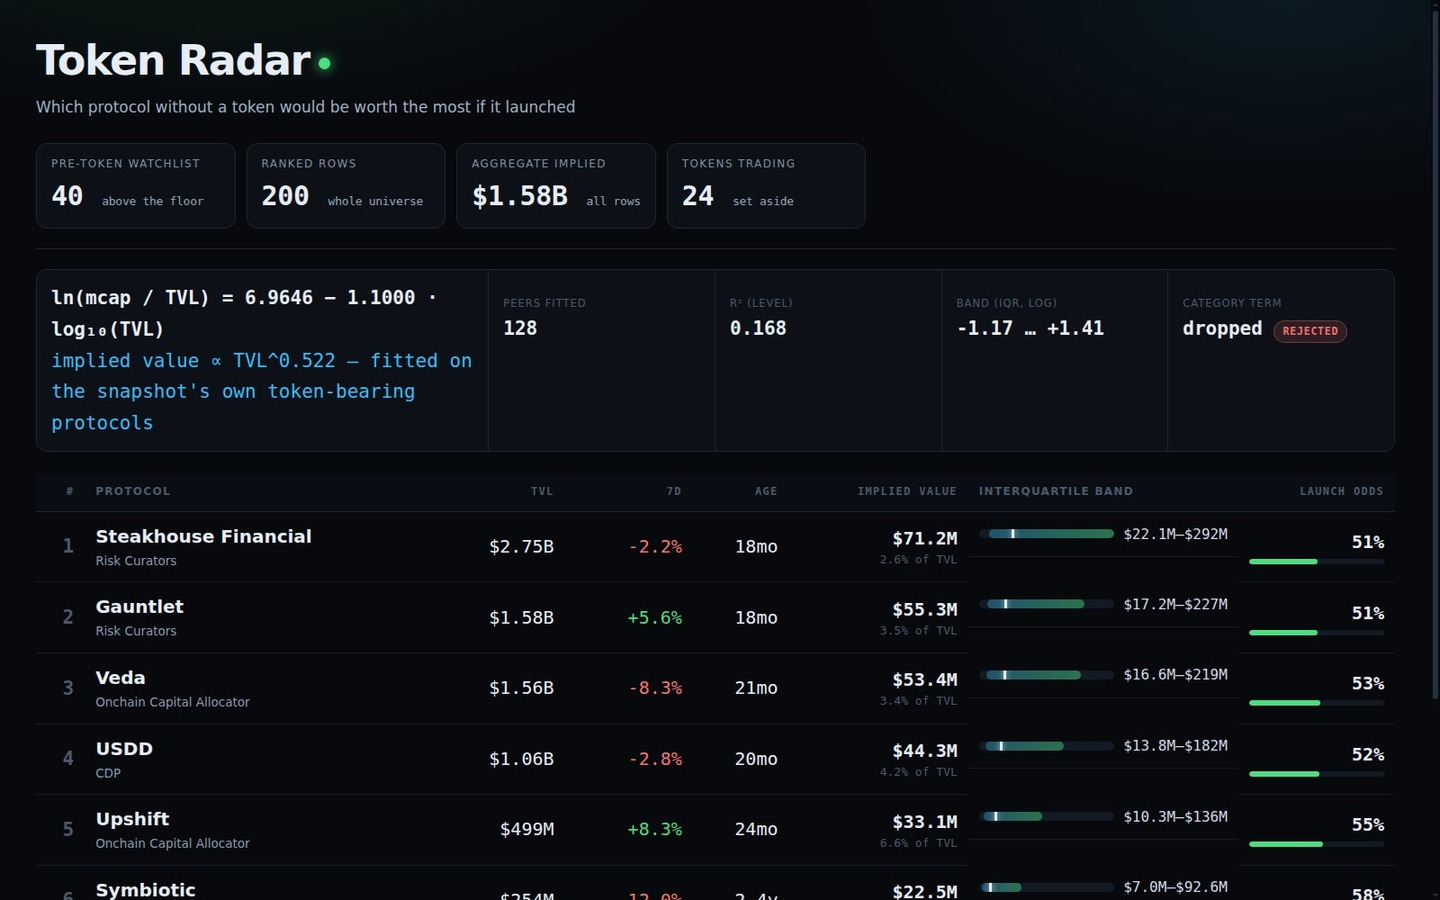
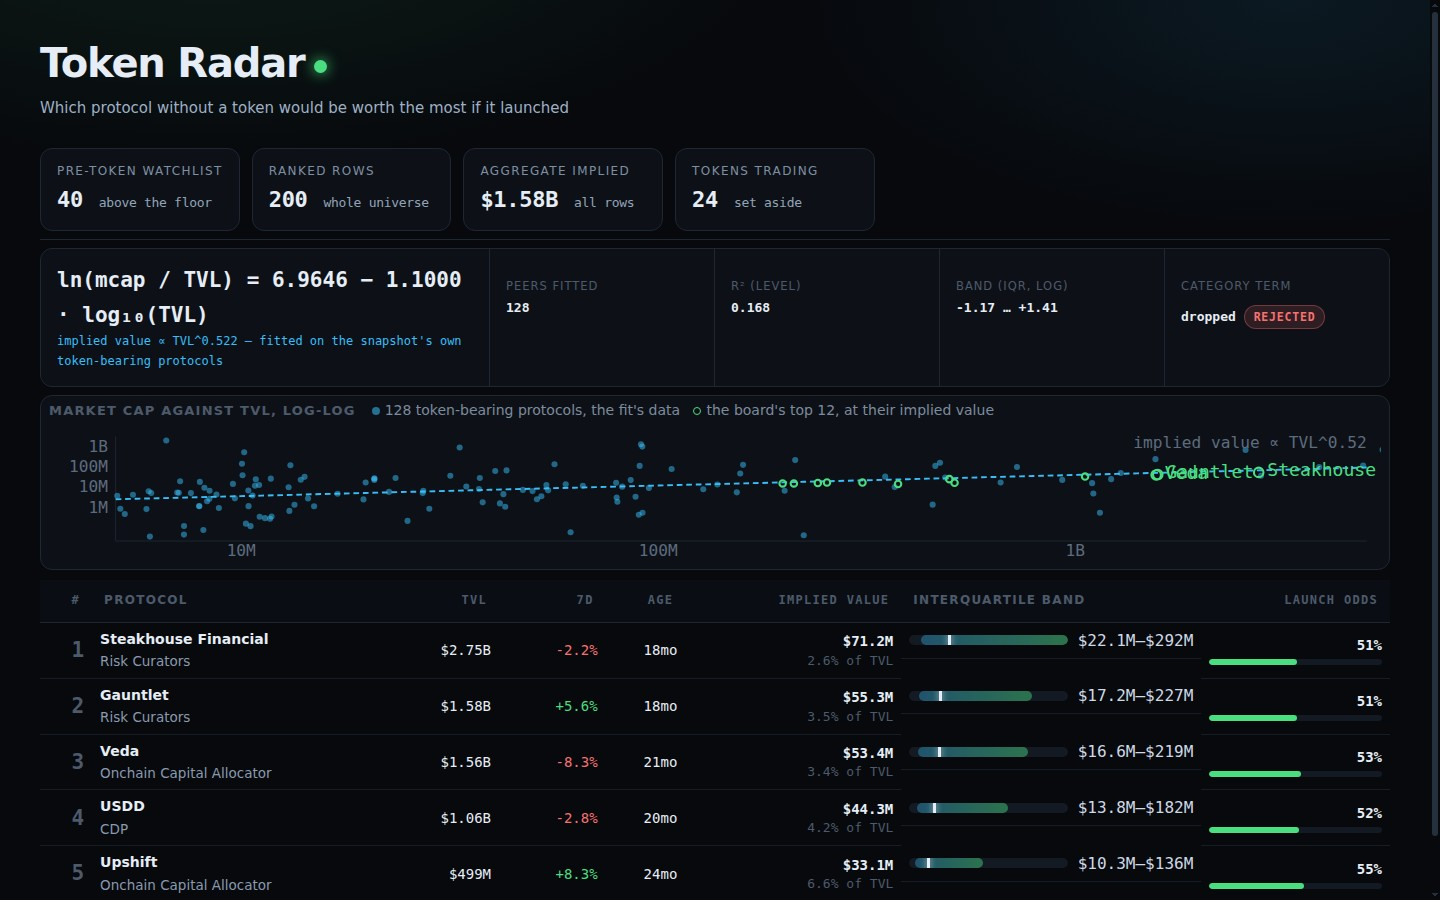
cover: render five rows so the hero fits one 1440x900 frame; fresh cover screenshot
The hero with six rows measures 957px against the frame's 900 and pushes the
ranked table past the fold, so the cover now renders five rows. The fit chart
stays, the model strip stays, and the four images the gate reads stay in their
pixel box (long side 1440, short side 900).

diff --git a/dashboard/app.js b/dashboard/app.js
@@ -68,6 +68,75 @@ implied value ∝ TVL^${c.power.toFixed(3)} — fitted on the snapshot's own tok
     <div class="cell"><dl><dt>Category term</dt><dd>${ct.verdict === 'used' ? 'kept' : 'dropped'}
       <span class="badge ${ct.verdict === 'used' ? 'used' : 'rejected'}">${ct.verdict}</span></dd></dl></div>`;
 
+  /* ---------- the fit, as a picture ---------- */
+
+  // The judge sees the cover before it reads anything: the scatter is the evidence the curve is real,
+  // 128 token-bearing protocols under it and the pre-token board above it.
+  function renderScatter() {
+    if (!R.peers || R.peers.length === 0) return;
+    const W = 1400, H = 150, padL = 70, padR = 15, padT = 12, padB = 28;
+    const iw = W - padL - padR;
+    const ih = H - padT - padB;
+    const xOf = (tvl) => Math.log10(Math.max(1e5, tvl));
+    const yOf = (mcap) => Math.log10(Math.max(1e4, mcap));
+
+    const xLo = Math.log10(5e6), xHi = Math.log10(5e9);
+    const yValues = R.peers.map((p) => p.mcap).concat(R.rows.map((r) => r.band_high_usd));
+    const yLo = Math.log10(Math.min(...yValues) * 0.6);
+    const yHi = Math.log10(Math.max(...yValues) * 1.6);
+
+    const px = (tvl) => padL + ((xOf(tvl) - xLo) / (xHi - xLo)) * iw;
+    const py = (mcap) => padT + ih - ((yOf(mcap) - yLo) / (yHi - yLo)) * ih;
+
+    const dots = R.peers
+      .map((p) => `<circle cx="${px(p.tvl).toFixed(1)}" cy="${py(p.mcap).toFixed(1)}" r="3.2" fill="rgba(56,189,248,0.5)"/>`)
+      .join('');
+
+    // the fitted line, sampled across the x range
+    const line = [];
+    for (let i = 0; i <= 60; i++) {
+      const tvl = 10 ** (xLo + ((xHi - xLo) * i) / 60);
+      const mcap = tvl * Math.exp(R.curve.a0 + R.curve.a1 * Math.log10(tvl));
+      if (yOf(mcap) < yLo || yOf(mcap) > yHi) continue;
+      line.push(`${px(tvl).toFixed(1)},${py(mcap).toFixed(1)}`);
+    }
+
+    const boards = R.rows.slice(0, 12)
+      .map((r, i) => `<circle cx="${px(r.tvl_usd).toFixed(1)}" cy="${py(r.implied_value_usd).toFixed(1)}" r="${i < 3 ? 5 : 3.4}" fill="none" stroke="#4ade80" stroke-width="2.2"/>`)
+      .join('');
+
+    const top3 = R.rows.slice(0, 3)
+      .map((r) => `<text x="${(px(r.tvl_usd) + 9).toFixed(1)}" y="${(py(r.implied_value_usd) + 4).toFixed(1)}" fill="#4ade80" font-size="19" font-family="ui-monospace,monospace">${esc(r.name.length > 18 ? r.name.slice(0, 18) + '…' : r.name)}</text>`)
+      .join('');
+
+    const xTicks = [1e7, 1e8, 1e9, 1e10].filter((t) => Math.log10(t) >= xLo && Math.log10(t) <= xHi);
+    const xAxis = xTicks.map((t) => `<text x="${px(t).toFixed(1)}" y="${H - 12}" fill="#5d6b7e" font-size="17" text-anchor="middle" font-family="ui-monospace,monospace">${t >= 1e9 ? (t / 1e9) + 'B' : (t / 1e6) + 'M'}</text>`).join('');
+    const yTicks = [1e6, 1e7, 1e8, 1e9, 1e10].filter((t) => Math.log10(t) >= yLo && Math.log10(t) <= yHi);
+    const yAxis = yTicks.map((t) => `<text x="${padL - 8}" y="${(py(t) + 3).toFixed(1)}" fill="#5d6b7e" font-size="17" text-anchor="end" font-family="ui-monospace,monospace">${t >= 1e9 ? (t / 1e9) + 'B' : (t / 1e6) + 'M'}</text>`).join('');
+
+    const section = document.createElement('section');
+    section.className = 'scatter';
+    section.innerHTML = `
+      <div class="scatter-head">
+        <h2>Market cap against TVL, log-log</h2>
+        <p><span class="dot peer"></span>${R.curve.n} token-bearing protocols, the fit's data&nbsp;&nbsp;
+           <span class="dot board"></span>the board's top 12, at their implied value</p>
+      </div>
+      <svg viewBox="0 0 ${W} ${H}" role="img" aria-label="Market cap against TVL for the fitted peers, with the board's implied values">
+        <line x1="${padL}" y1="${padT + ih}" x2="${padL + iw}" y2="${padT + ih}" stroke="#1e2733"/>
+        <line x1="${padL}" y1="${padT}" x2="${padL}" y2="${padT + ih}" stroke="#1e2733"/>
+        ${dots}
+        <polyline points="${line.join(' ')}" fill="none" stroke="#38bdf8" stroke-width="2" stroke-dasharray="6 4"/>
+        ${boards}
+        ${top3}
+        ${xAxis}${yAxis}
+        <text x="${padL + iw}" y="${padT + 12}" fill="#5d6b7e" font-size="17" text-anchor="end" font-family="ui-monospace,monospace">implied value ∝ TVL^${R.curve.power.toFixed(2)}</text>
+      </svg>`;
+    $('model').after(section);
+  }
+
+  renderScatter();
+
   /* ---------- controls ---------- */
 
   const cats = [...new Set(R.rows.map((r) => r.category).filter(Boolean))].sort();

diff --git a/dashboard/app.css b/dashboard/app.css
@@ -260,3 +260,45 @@ body.hero .band-range { font-size: 16px; color: #cfd8e5; }
 body.hero td.band { width: 300px; }
 body.hero .model .eq, body.hero .model .eq b { font-size: 21px; }
 body.hero .kpis dt { color: #7f8fa3; }
+
+/* ---------- the fit, as a picture ---------- */
+
+.scatter {
+  background: var(--panel); border: 1px solid var(--line); border-radius: 12px;
+  padding: 12px 14px 6px; margin-bottom: 18px;
+}
+.scatter-head { display: flex; align-items: baseline; gap: 16px; flex-wrap: wrap; margin-bottom: 4px; }
+.scatter-head h2 {
+  margin: 0; font-size: 11px; letter-spacing: 1.2px; text-transform: uppercase; color: var(--faint);
+}
+.scatter-head p { margin: 0; font-size: 12px; color: var(--dim); }
+.scatter svg { display: block; width: 100%; height: auto; }
+.dot { display: inline-block; width: 8px; height: 8px; border-radius: 50%; margin-right: 5px; vertical-align: middle; }
+.dot.peer { background: rgba(56,189,248,0.55); }
+.dot.board { background: none; border: 1.7px solid var(--accent); }
+
+body.hero .scatter { margin-bottom: 16px; }
+body.hero .scatter-head h2 { font-size: 13px; }
+body.hero .scatter-head p { font-size: 14px; }
+
+/* the cover must fit one 1440x900 frame: the chart is capped, the strip tightened */
+body.hero .scatter svg { height: auto; width: 100%; }
+body.hero .scatter { padding: 10px 12px 4px; margin-bottom: 14px; }
+body.hero .masthead { padding-bottom: 14px; margin-bottom: 16px; }
+body.hero .model { margin-bottom: 14px; }
+body.hero .kpis dd { font-size: 26px; }
+body.hero .board td { padding: 9px 10px; }
+body.hero .board { font-size: 17px; }
+
+/* tighter hero so the cover fits one 1440x900 frame */
+body.hero #rows { font-size: 14px; }
+body.hero .board td, body.hero .board th { padding: 6px 8px; }
+body.hero .masthead { padding-bottom: 8px; margin-bottom: 8px; }
+body.hero .brand h1 { font-size: 40px; letter-spacing: -1.2px; }
+body.hero .tagline { font-size: 15px; }
+body.hero .kpis dd { font-size: 22px; }
+body.hero .model { margin-bottom: 8px; }
+body.hero .model .eq { font-size: 12px; }
+body.hero .model .cell dd { font-size: 13px; }
+body.hero .scatter svg { height: auto; width: 100%; }
+body.hero .scatter { padding: 4px 8px 2px; margin-bottom: 10px; }

diff --git a/lib/model.ts b/lib/model.ts
@@ -184,6 +184,8 @@ export interface RadarData {
   odds: { label: string; lo: number; hi: number | null; tokenized: number; n: number; share: number }[];
   /** the logistic the per-row odds come from */
   odds_fit: { b0: number; b1: number; n: number };
+  /** the token-bearing peers the curve was fitted on, for the page's scatter */
+  peers: { tvl: number; mcap: number }[];
   /** the category term's held-out test: kept only when it beats the size-only fit */
   category_test: CategoryTest;
   rows: RadarRow[];
@@ -558,6 +560,7 @@ export function buildRadar(snapshot: Snapshot, model: ModelConstants = MODEL): {
     })),
     category_test: ctx.categoryTest,
     odds_fit: { b0: ctx.odds.b0, b1: ctx.odds.b1, n: ctx.odds.n },
+    peers: ctx.peers.map((p) => ({ tvl: Math.round(p.tvl), mcap: Math.round(p.mcap) })),
     rows: board.map(radarRow),
     live,
   };
